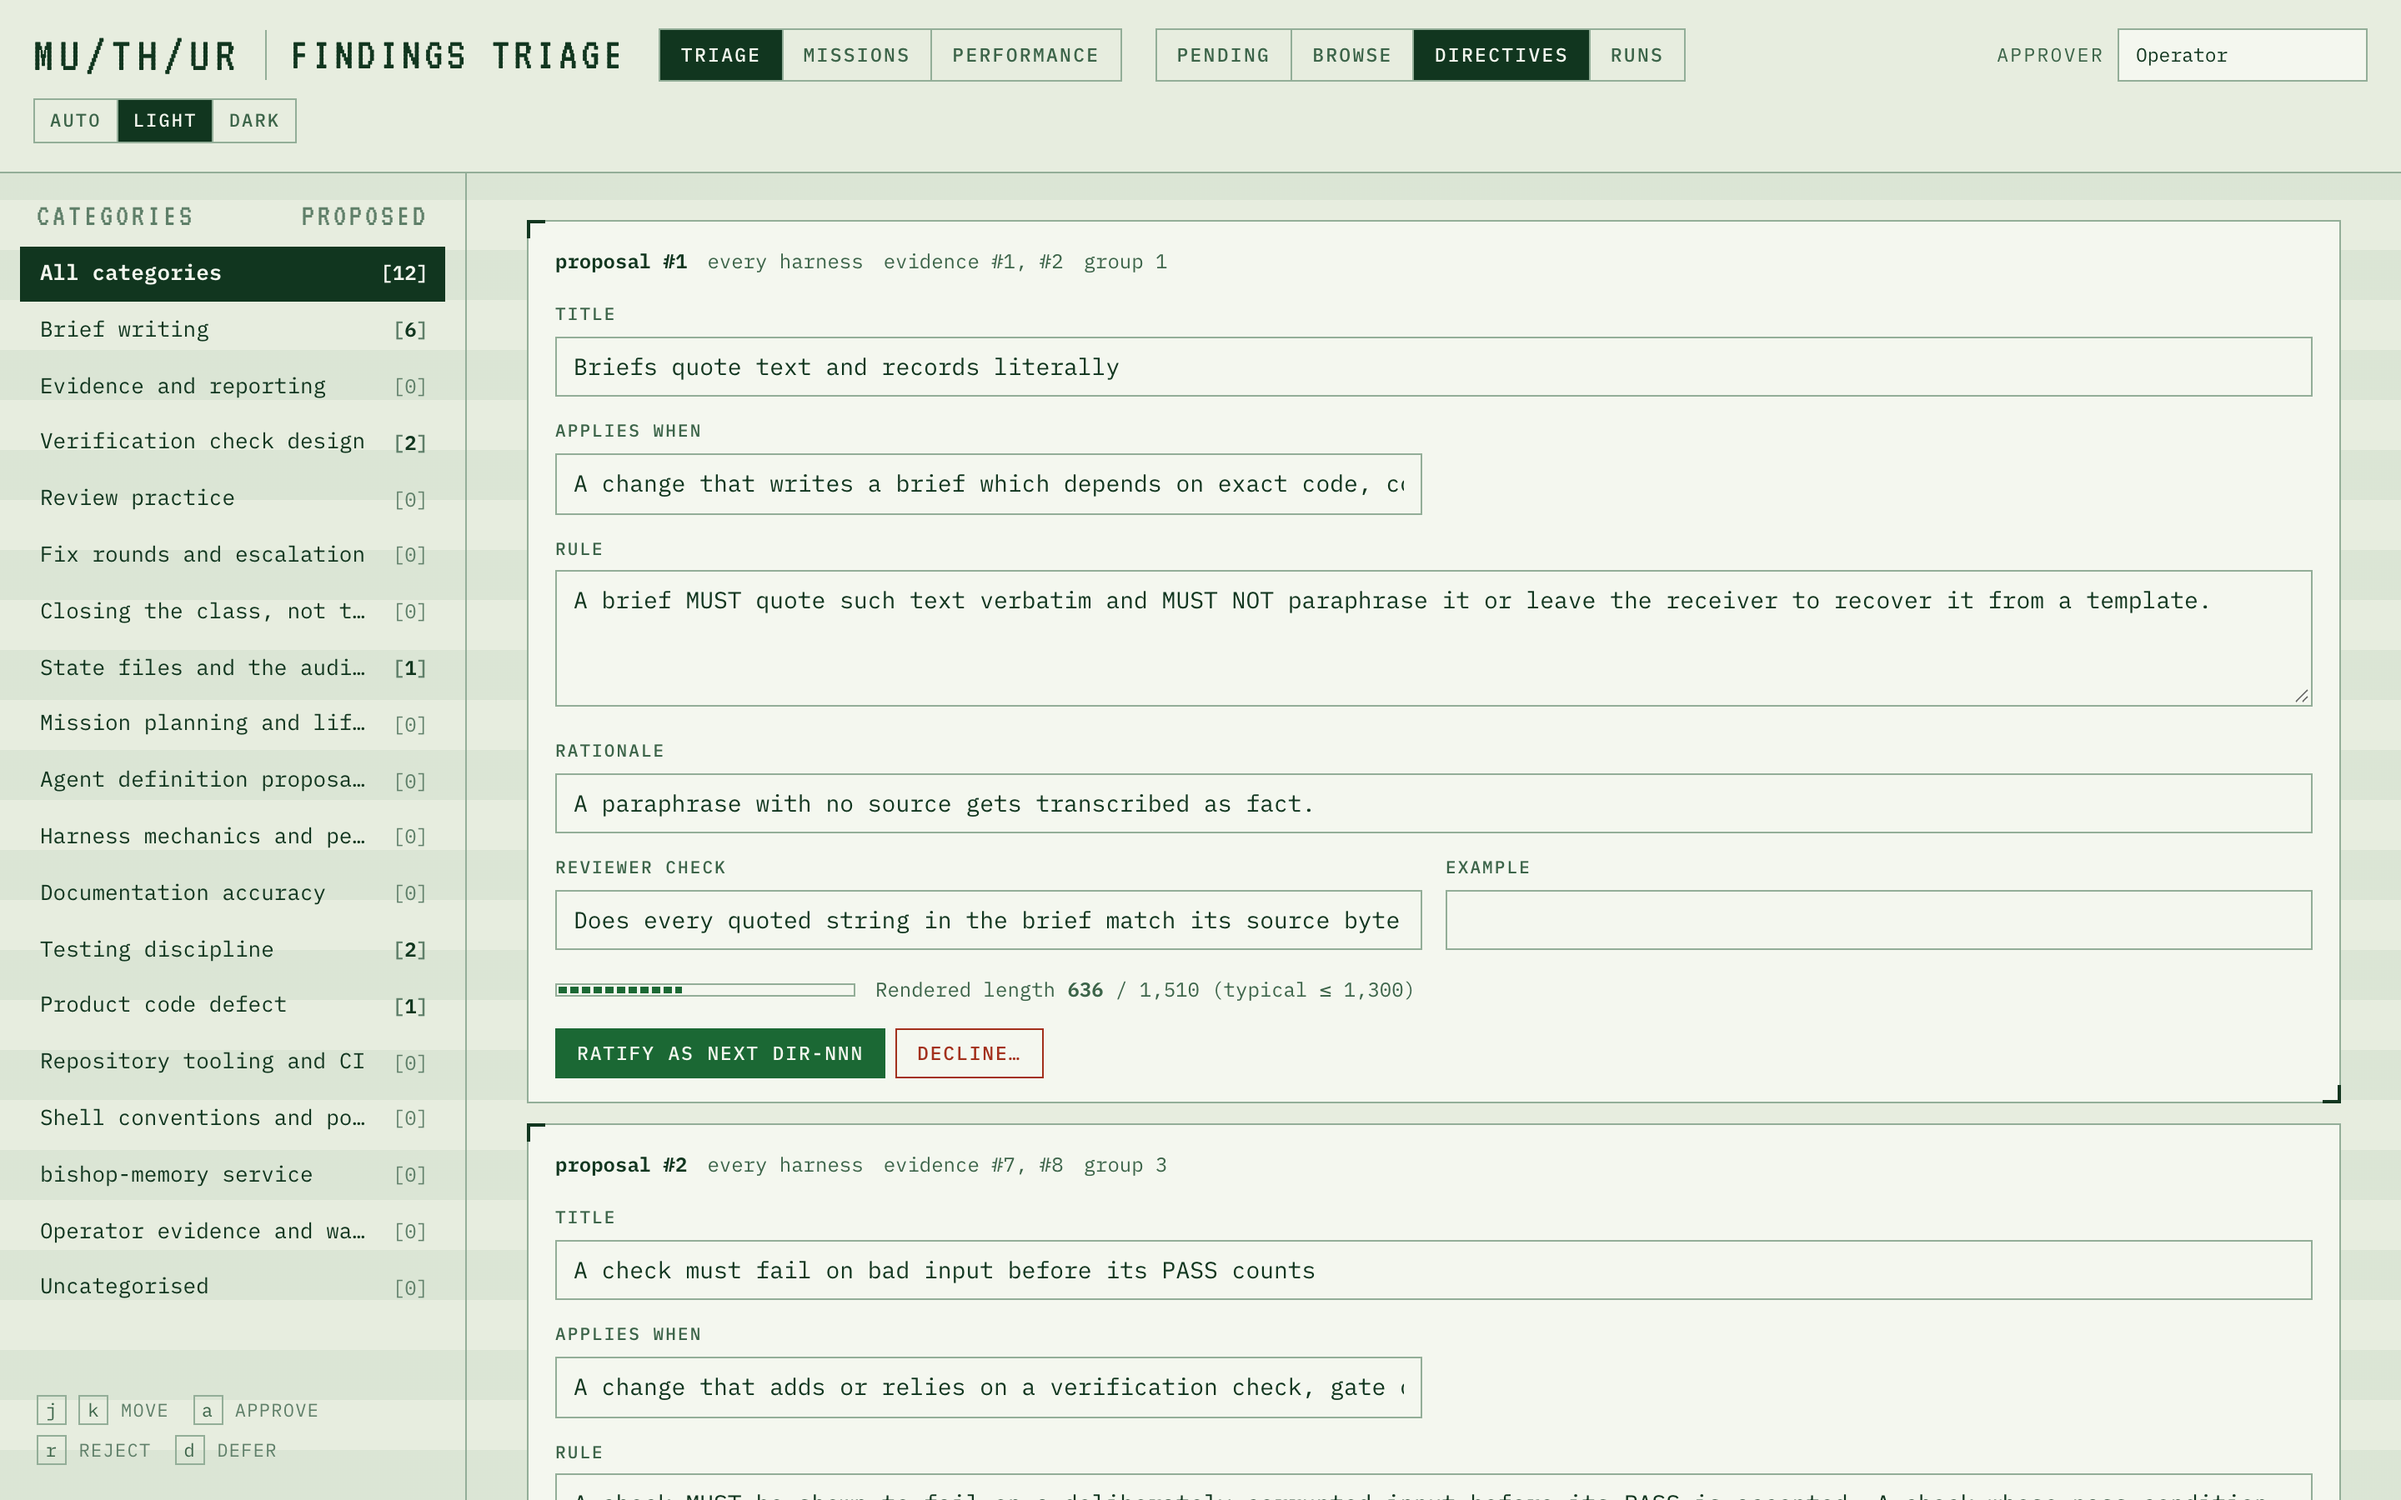
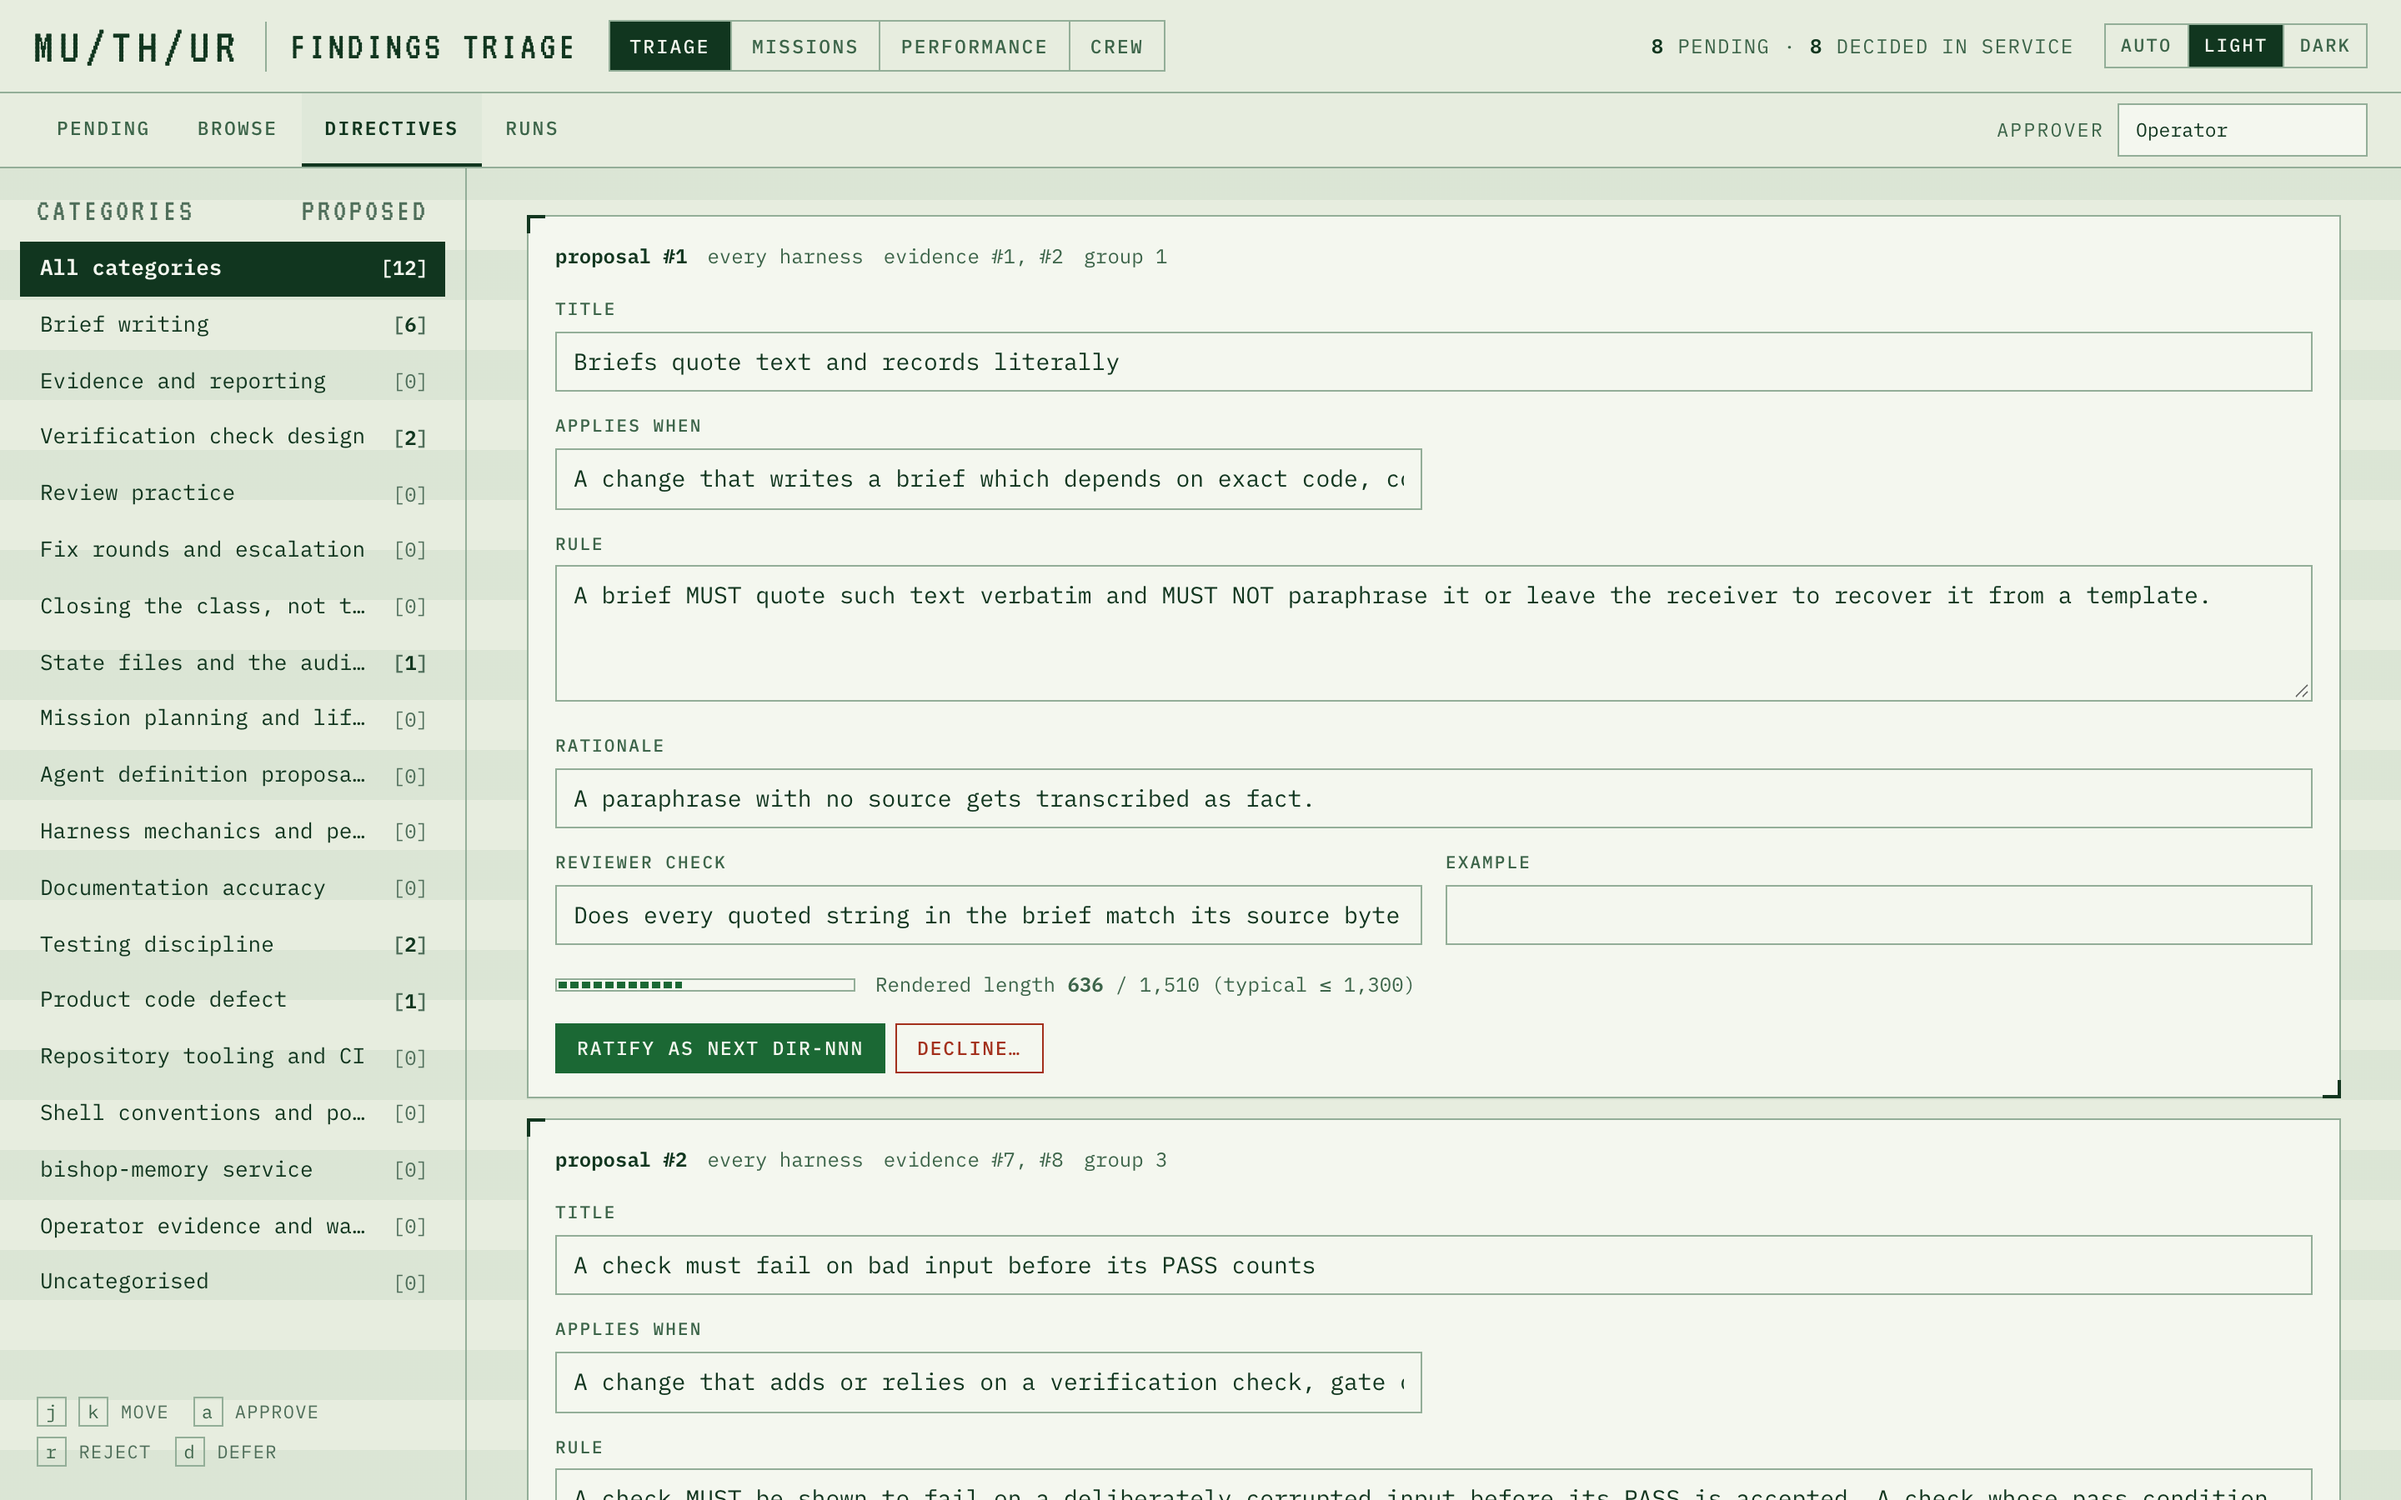
Refresh screenshots for the operator's N/A grade
demo.json adds one finished, made-up mission and sets it aside through
grades.excluded. seed-demo.py applies that with the operator route
PUT /v1/mission-grades/:id/exclusion, after the grades are written.

capture.js adds missions-na-light, which opens that mission and scrolls
to its Grade section, found by its heading.

The committed images predated the current HUD (no Crew tab, no Now
section, mission IDs from an earlier date), so every regenerated image
differs from its committed version. The changes from the demo data are
in the missions shots (the list gains a row, and the set-aside mission
shows its N/A badge), in the performance shots (the N/A chip and the
Set aside count), and in the new missions-na-light. runs-light differs
only in its run timestamps.

Known and not fixed here: missions-steps-light is byte-identical to
missions-light. scrollToSection(page, 2) indexes section.sec, which now
starts with the Now section, so index 2 is the Brief section, which the
Summary tab hides. The shot therefore shows the top of the mission.

diff --git a/scripts/screenshots/capture.js b/scripts/screenshots/capture.js
@@ -34,6 +34,9 @@ const SHOTS = [
     after: async (page) => { await scrollToSection(page, 2); } },
   { name: 'missions-phone-light', theme: 'light', viewport: PHONE, mission: 'Retry transient provider errors',
     after: async (page) => { await scrollToSection(page, -1); } },
+  // The set-aside mission from demo.json: its Grade section carries the large N/A badge.
+  { name: 'missions-na-light', theme: 'light', viewport: DESKTOP, mission: 'Dry run of the release checklist',
+    after: async (page) => { await scrollToGrade(page); } },
   { name: 'performance-light', theme: 'light', viewport: DESKTOP, page: '/performance' },
   { name: 'performance-dark', theme: 'dark', viewport: DESKTOP, page: '/performance' },
   { name: 'phone-light', theme: 'light', viewport: PHONE, tab: 'pending',
@@ -56,6 +59,21 @@ async function scrollToSection(page, i) {
     const header = document.querySelector('header.top').offsetHeight;
     window.scrollTo(0, el.getBoundingClientRect().top + window.scrollY - header - 12);
   }, i);
+  await page.waitForTimeout(300);
+}
+
+// Scrolls the mission view so its Grade section sits just below the sticky
+// header. The section is found by its heading, because the panes hide sections
+// that belong to other tabs, so a numeric index can name a hidden one. Throws
+// when there is no Grade section, so the shot fails rather than capturing the top.
+async function scrollToGrade(page) {
+  await page.evaluate(() => {
+    const sec = [...document.querySelectorAll('#view section.sec')]
+      .find(s => s.querySelector('h3')?.textContent.trim() === 'Grade');
+    if (!sec) throw new Error('no Grade section in the mission view');
+    const header = document.querySelector('header.top').offsetHeight;
+    window.scrollTo(0, sec.getBoundingClientRect().top + window.scrollY - header - 12);
+  });
   await page.waitForTimeout(300);
 }
 

diff --git a/scripts/screenshots/seed-demo.py b/scripts/screenshots/seed-demo.py
@@ -18,6 +18,10 @@ something to show. --db, the throwaway database file, lets the seeder
 backdate the missions and their journal to the dates in demo.json; the API
 stamps both with the current time.
 
+Grades go through the grader's claim and write routes. A demo mission named
+under grades.excluded is then set aside as N/A through the operator's
+exclusion route, so the HUD and the performance page show that state too.
+
 Refuses to seed a database that already holds findings: this is for a
 throwaway instance only (scripts/screenshots/run.sh starts one).
 
@@ -204,6 +208,16 @@ def seed_grades(url, demo, db_path):
     return written
 
 
+def seed_exclusions(url, demo):
+    """Set the demo missions named under grades.excluded aside as N/A, through the
+    operator's exclusion route. Runs after seed_grades, so the grade run never
+    claims these missions. Returns how many were set aside."""
+    spec = (demo.get("grades") or {}).get("excluded", {})
+    for key, note in spec.items():
+        call(url, "PUT", f"/v1/mission-grades/{demo['_mission_ids'][key]}/exclusion", {"note": note})
+    return len(spec)
+
+
 def main():
     parser = argparse.ArgumentParser(description=__doc__, formatter_class=argparse.RawDescriptionHelpFormatter)
     parser.add_argument("--url", required=True)
@@ -290,12 +304,14 @@ def main():
              {"state": "accepted", "decided_by": approver})
 
     graded = seed_grades(url, demo, args.db) if args.memory_root else 0
+    set_aside = seed_exclusions(url, demo) if args.memory_root else 0
 
     pending = call(url, "GET", "/v1/triage/pending")
     missions = len(demo.get("missions", [])) if args.memory_root else 0
     print(f"[seed-demo] {missions} missions, {len(ids)} findings, {len(demo['runs'])} runs, "
           f"{pending['pending_findings']} pending recommendations, "
-          f"{len(pending['directive_proposals'])} pending directive drafts, {graded} mission grades")
+          f"{len(pending['directive_proposals'])} pending directive drafts, {graded} mission grades, "
+          f"{set_aside} set aside")
 
 
 if __name__ == "__main__":
